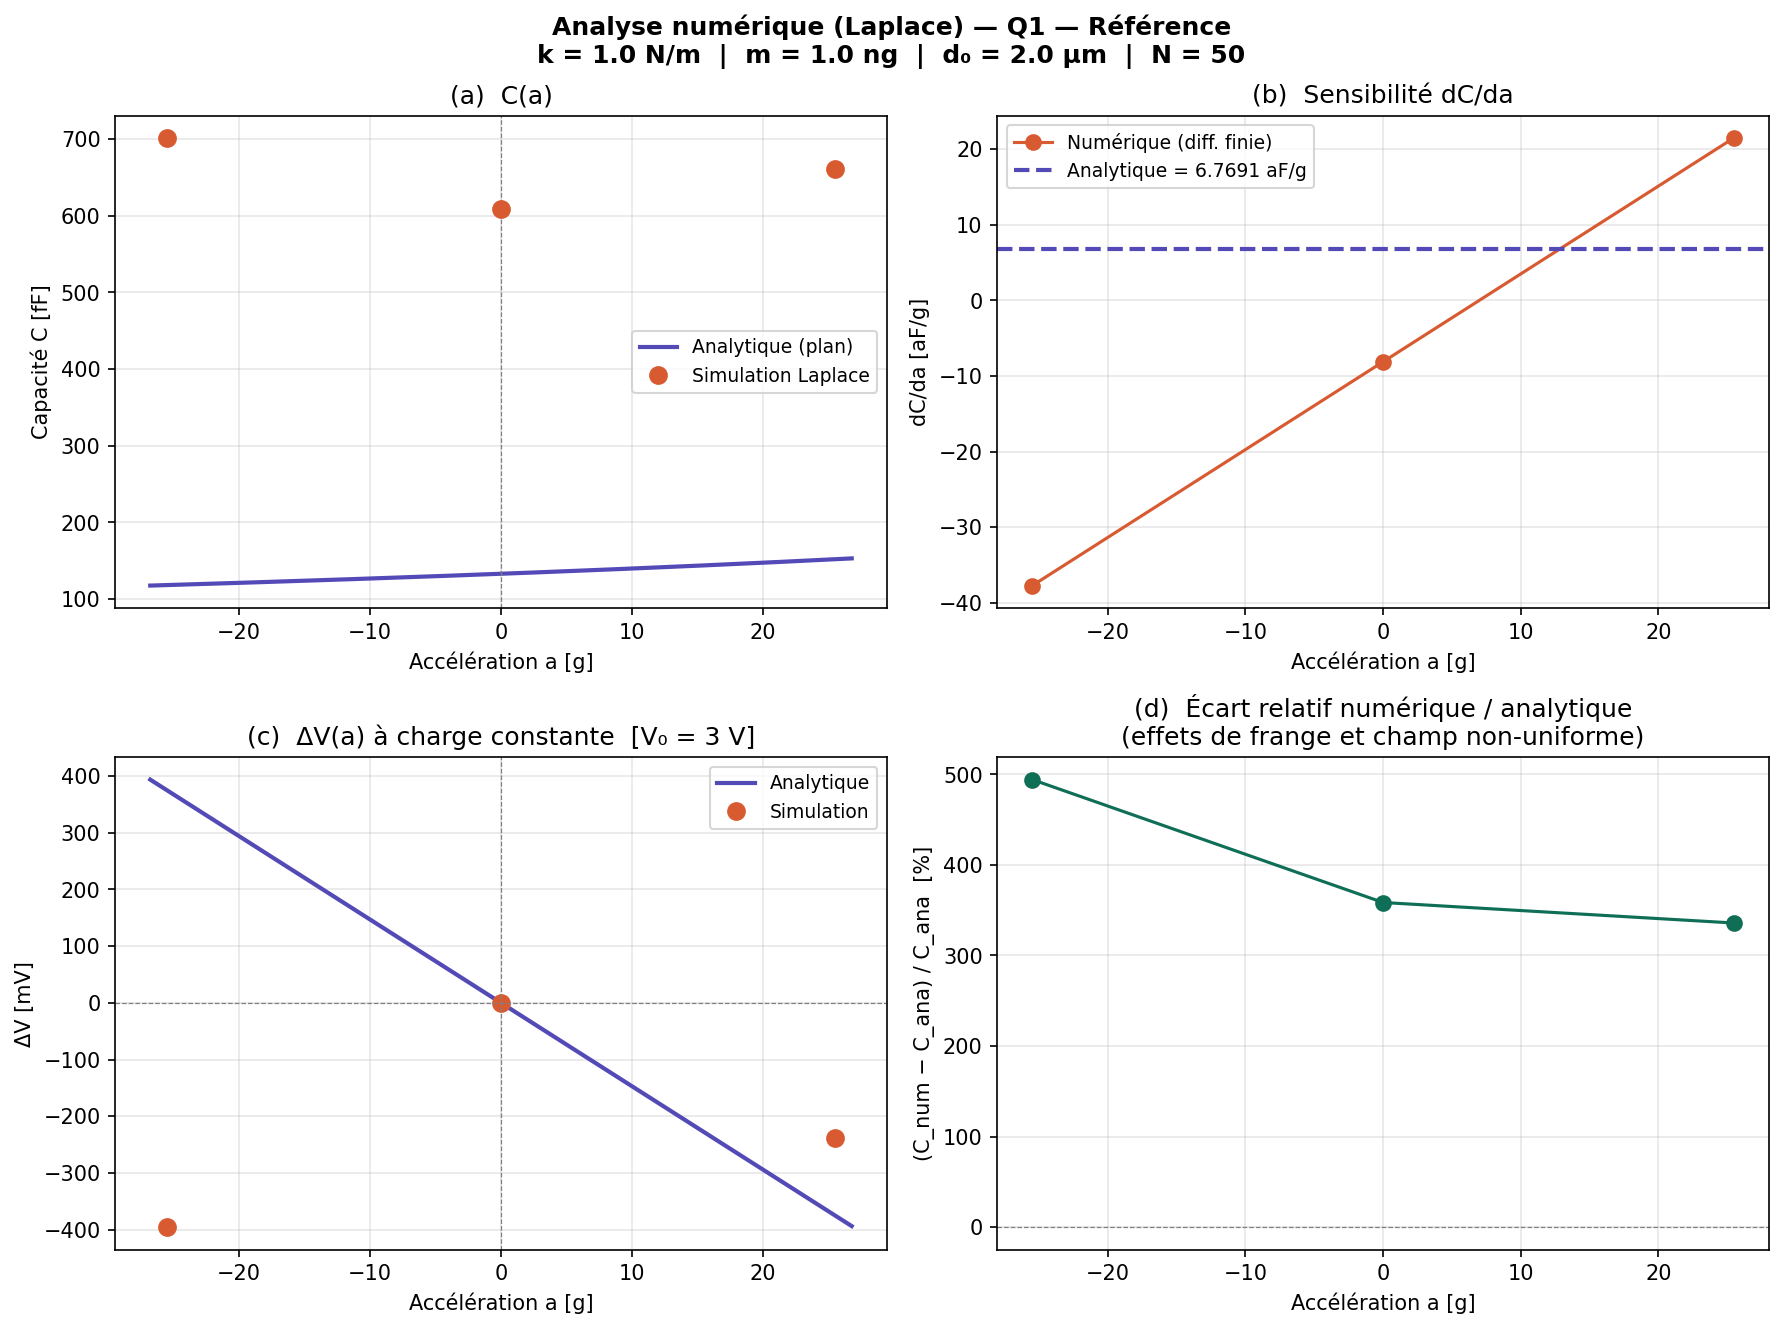
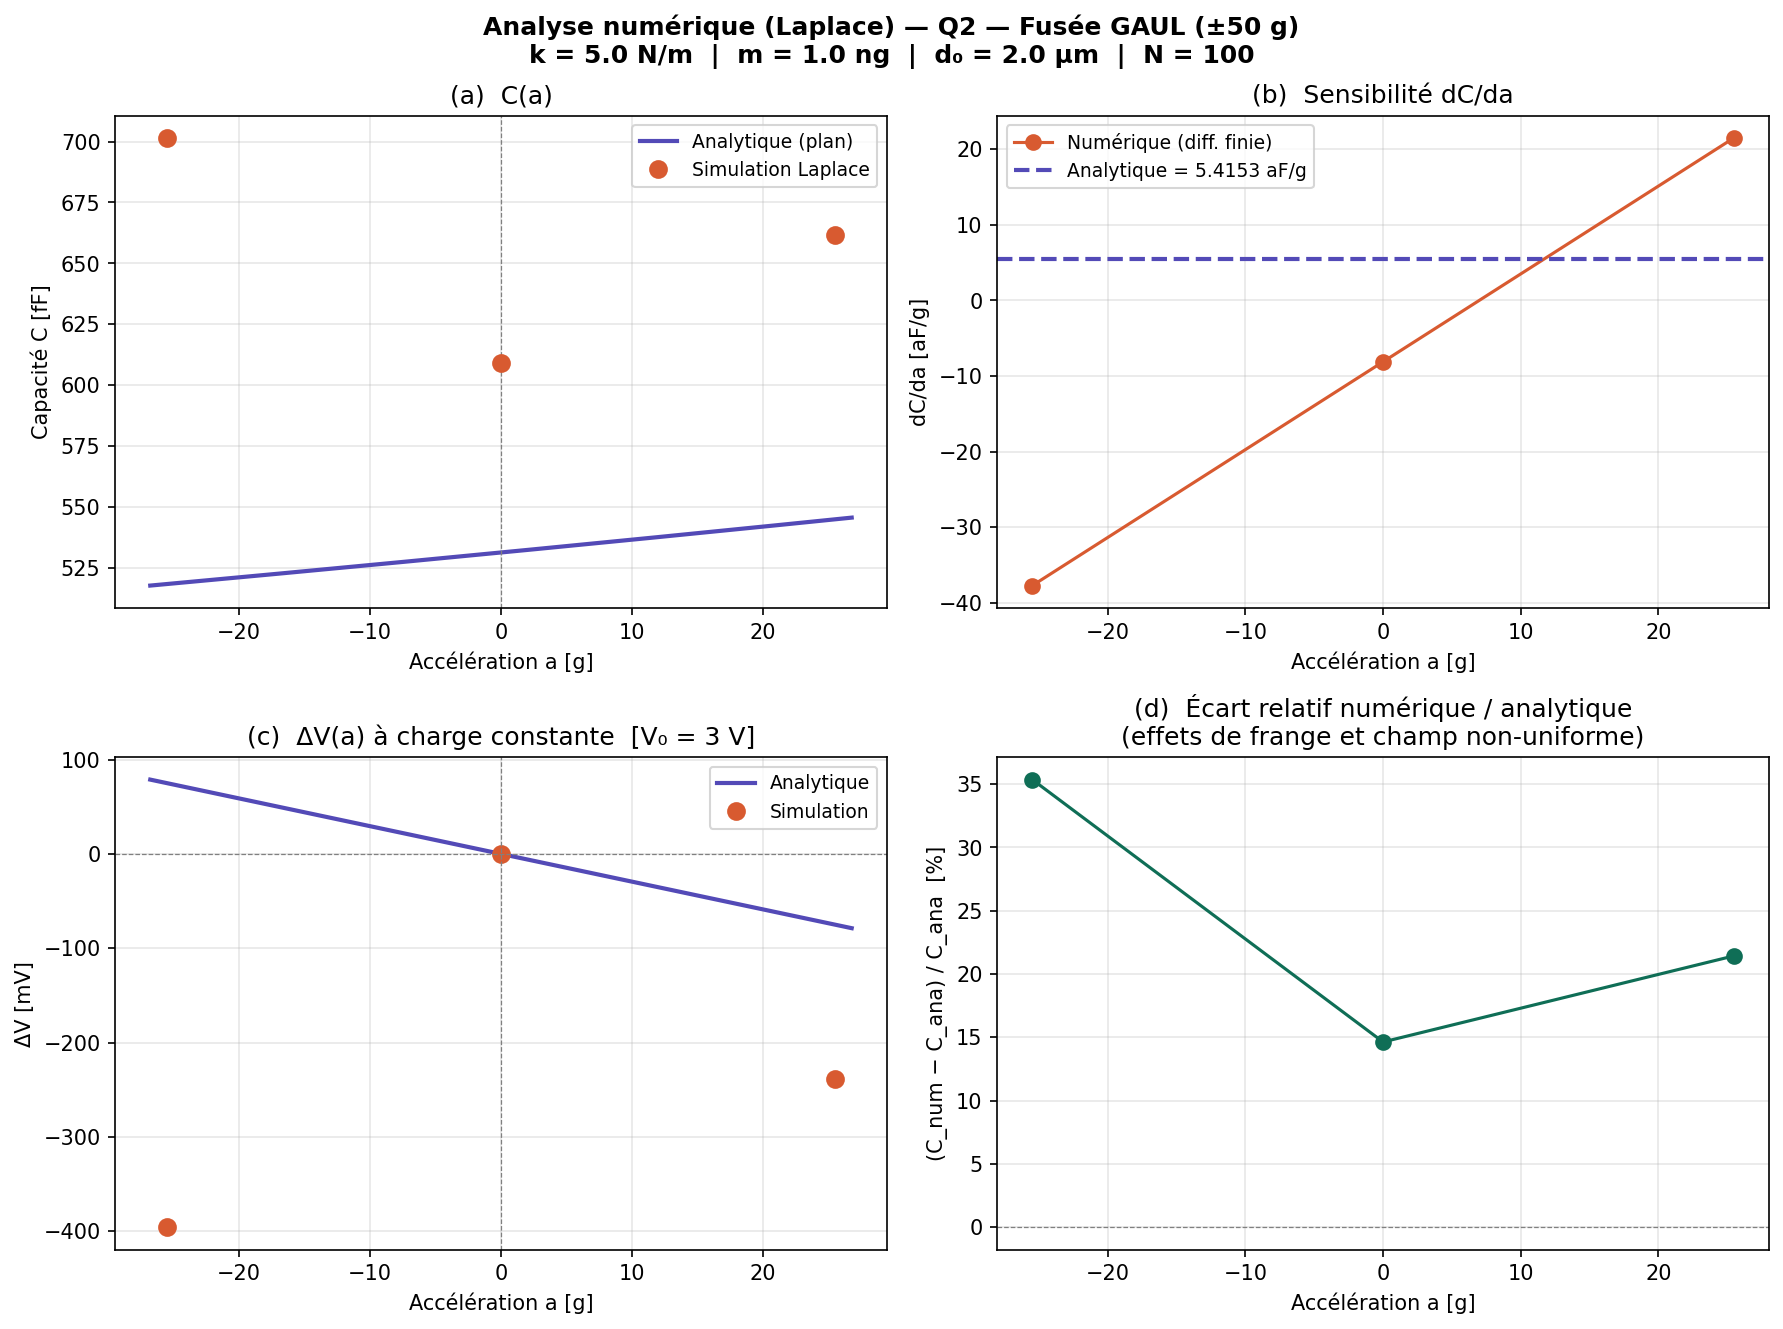
python Laplace.py 2

diff --git a/Laplace.py b/Laplace.py
@@ -108,6 +108,19 @@ DESIGN_Q1 = MEMSDesign(
 DESIGN_Q2 = MEMSDesign(
     name       = "Q2 — Fusée GAUL (±50 g)",
     k          = 5.0,       # raideur ×5 → 5× moins de déplacement à pleine échelle
+    m          = 1e-6,
+    d0         = 2e-6,
+    N          = 100,       # ×2 paires pour compenser la perte de sensibilité
+    L          = 400e-6,    # ×2 longueur
+    t          = 3e-6,
+    V0         = 3.0,
+    pixel_size = 0.25e-6,
+    N_sim      = 6,
+)
+
+DESIGN_Q1_1 = MEMSDesign(
+    name       = "Q2 — Fusée GAUL (±50 g)",
+    k          = 5.0,       # raideur ×5 → 5× moins de déplacement à pleine échelle
     m          = 1e-9,
     d0         = 2e-6,
     N          = 100,       # ×2 paires pour compenser la perte de sensibilité
@@ -587,7 +600,7 @@ if __name__ == "__main__":
     print(f"\n  Temps total Q1 : {time.time()-t0:.1f} s")
 
     afficher_resume(DESIGN_Q1, a1, C1)
-    figure_Q1(DESIGN_Q1, a1, C1)
+    figure_Q1(DESIGN_Q1_1, a1, C1)
 
     # ── Question 2 ──────────────────────────────────────────────────────────
     print(f"\n[ Q2 ]  Design fusée GAUL — balayage C(a)")
